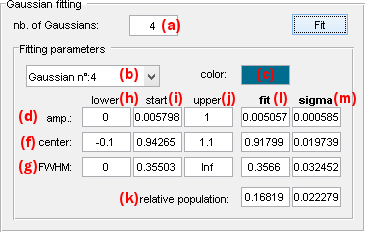
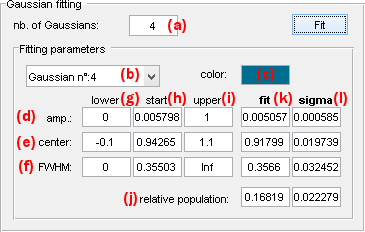
Complete HA's panel "State populations"

diff --git a/docs/histogram-analysis/panels/panel-state-populations.md b/docs/histogram-analysis/panels/panel-state-populations.md
@@ -26,6 +26,19 @@ Defines the method to calculate state populations.
 
 <img src="../../assets/images/gui/HA-panel-state-populations-method.png" style="max-width: 156px;"/>
 
+State relative population are calculated as the surface of the corresponding histogram peak normalized by the total histogram surface.
+
+Histogram peaks can be integrated in two ways:
+* with [Gaussian fitting](#gaussian-fitting), by activating the option in **(a)**
+* with [Thresholds](#thresholding) between histogram peaks, by activating the option in **(b)**
+
+Additionally, the cross-sample variability of state populations can be estimated with the BOBA-FRET method by activating the option in **(c)**.
+In that case, the number of replicates to build a bootstrap histogram sample must be set in **(d)** and the number of bootstrap samples in **(e)**.
+By default, the number of replicates is set to the number of molecules in the project.
+
+In order to not over-represent short trajectories in the bootstrap histograms, replicates can be given a weight proportional to the length of their time traces.
+This is done by activating the option in **(f)**.
+
 
 ---
 
@@ -35,15 +48,25 @@ Defines settings to calculate state populations with the Thresholding method.
 
 <img src="../../assets/images/gui/HA-panel-state-populations-thresholding.png" style="max-width: 215px;"/>
 
-States are separated by fixed thresholds, histogram counts are summed up between thresholds and resulting populations are normalized.
+With the thresholding method, histogram peaks are separated by fixed thresholds, histogram counts are summed up between thresholds and resulting integrals are normalized by the sum of all integrals to obtain the state relative populations as described in the
+[State population](../workflow.html#estimate-state-populations-and-associated-cross-sample-variability) section of Histogram analyiss worklfow.
 
-* Set `J-1` thresholds in edit fieldd **(a)** for a model containing *J* of states.
-* Select threshold with dropdown menu **(b)** and set the threshold value in edit field **(c)**.
-* Start calculations with button 
-![Start](../../assets/images/gui/HA-but-start.png)
-* <u>Start thresholding</u>
+To calculate the relative populations of 
+[*J*](){: .math_var } states, a number of 
+[*J*-1](){: .math_var } thresholds must be used.
+The number of threshold must be set in **(a)**, and each threshold in **(c)** after browsing the list in **(b)**.
+Threshold can also be calculated from an inferred model; see 
+[Inferred models](panel-state-configuration.html#inferred-models) for more information.
 
-* <u>Calculation results</u>
+Calculation of state relative populations can be started after setting thresholds and by pressing 
+![Start](../../assets/images/gui/HA-but-start.png).
+If the 
+[Method settings](#method-settings) include BOBA-FRET, histogram bootstrapping and subsequent thresholding will be performed.
+
+<img src="../../assets/images/gui/HA-panel-state-populations-threshold-loadingbar.png" style="max-width:389px;">
+
+After completion, relative population of the histogram peak selected in list **(d)** is displayed in **(e)**.
+When using BOBA-FRET, the bootstrap mean and standard deviation of the state relative population are respectively displayed in **(e)** and **(f)**.
 
 
 ---
@@ -54,12 +77,46 @@ Defines settings to calculate state populations with the Gaussian fitting method
 
 <img src="../../assets/images/gui/HA-panel-state-populations-gaussian-fitting.png" style="max-width: 365px;"/>
 
-Histogram is fitted with a mixture of Gaussians and 
+With the Gaussian fitting method, the histogram is fitted with a mixture of Gaussian functions with each Gaussian defined as:
 
-* <u>Fitting model</u>
+{: .equation }
+<img src="../../assets/images/equations/HA-eq-gaussian.gif" alt="P_{j} = A_{j}\textup{exp}\left [-\frac{(x-\mu_{j})^{2}}{2\sigma_{j}^{2}} \right ]">
 
-* <u>Start fitting</u>
+with 
+[*A*<sub>*j*</sub>](){: .math_var },
+[*&#956;*<sub>*j*</sub>](){: .math_var } and 
+[*&#963;*<sub>*j*</sub>](){: .math_var } the amplitude, mean and standard deviation of the Gaussian modelling state 
+[*j*](){: .math_var }.
 
-* <u>Fitting results and state populations</u>
+After fitting, Gaussian integrals 
+[*S*<sub>*j*</sub>](){: .math_var } are analytically calculated and normalized by the sum of all integrals to obtain the state relative populations as described in the
+[State population](../workflow.html#estimate-state-populations-and-associated-cross-sample-variability) section of Histogram analyiss worklfow.
+
+To calculate the relative populations of 
+[*J*](){: .math_var } states, a number of 
+[*J*](){: .math_var } Gaussian functions must be used.
+The number of Gaussian functions must be set in **(a)**
+Fitting parameters must be defined in **(b)**in **(d-i)** in terms of starting guesses and boundaries, for each Gaussian selected in list **(b)**.
+
+Parameters 
+[*A*<sub>*j*</sub>](){: .math_var },
+[*&#956;*<sub>*j*</sub>](){: .math_var } and 
+[*&#963;*<sub>*j*</sub>](){: .math_var } must be respectively set in rows **(d)**, **(e)** and **(f)**, with the staring guess in column **(h)**, the lower bound in column **(g)** and higher bound in column **(i)**.
+Starting guess of fitting parameters can also be imported from an inferred model; see 
+[Inferred models](panel-state-configuration.html#inferred-models) for more information.
+
+After setting parameters, Gaussian fitting can be started by pressing 
+![Start](../../assets/images/gui/HA-but-start.png).
+If the 
+[Method settings](#method-settings) include BOBA-FRET, histogram bootstrapping and subsequent Gaussian fitting will be performed.
+
+<img src="../../assets/images/gui/HA-panel-state-populations-gaussian-fitting-loadingbar.png" style="max-width:389px;">
+
+After completion, relative population of the Gaussian selected in list **(b)** is displayed in row **(j)** and column **(k)**.
+When using BOBA-FRET, the bootstrap mean and standard deviation of the state relative population are respectively displayed in column **(k)** and **(l)**.
+Similarly, the bootstrap mean and standard deviation of fit parameters 
+[*A*<sub>*j*</sub>](){: .math_var },
+[*&#956;*<sub>*j*</sub>](){: .math_var } and 
+[*&#963;*<sub>*j*</sub>](){: .math_var } are respectively shown in rows **(d)**, **(e)** and **(f)**.
 
 
